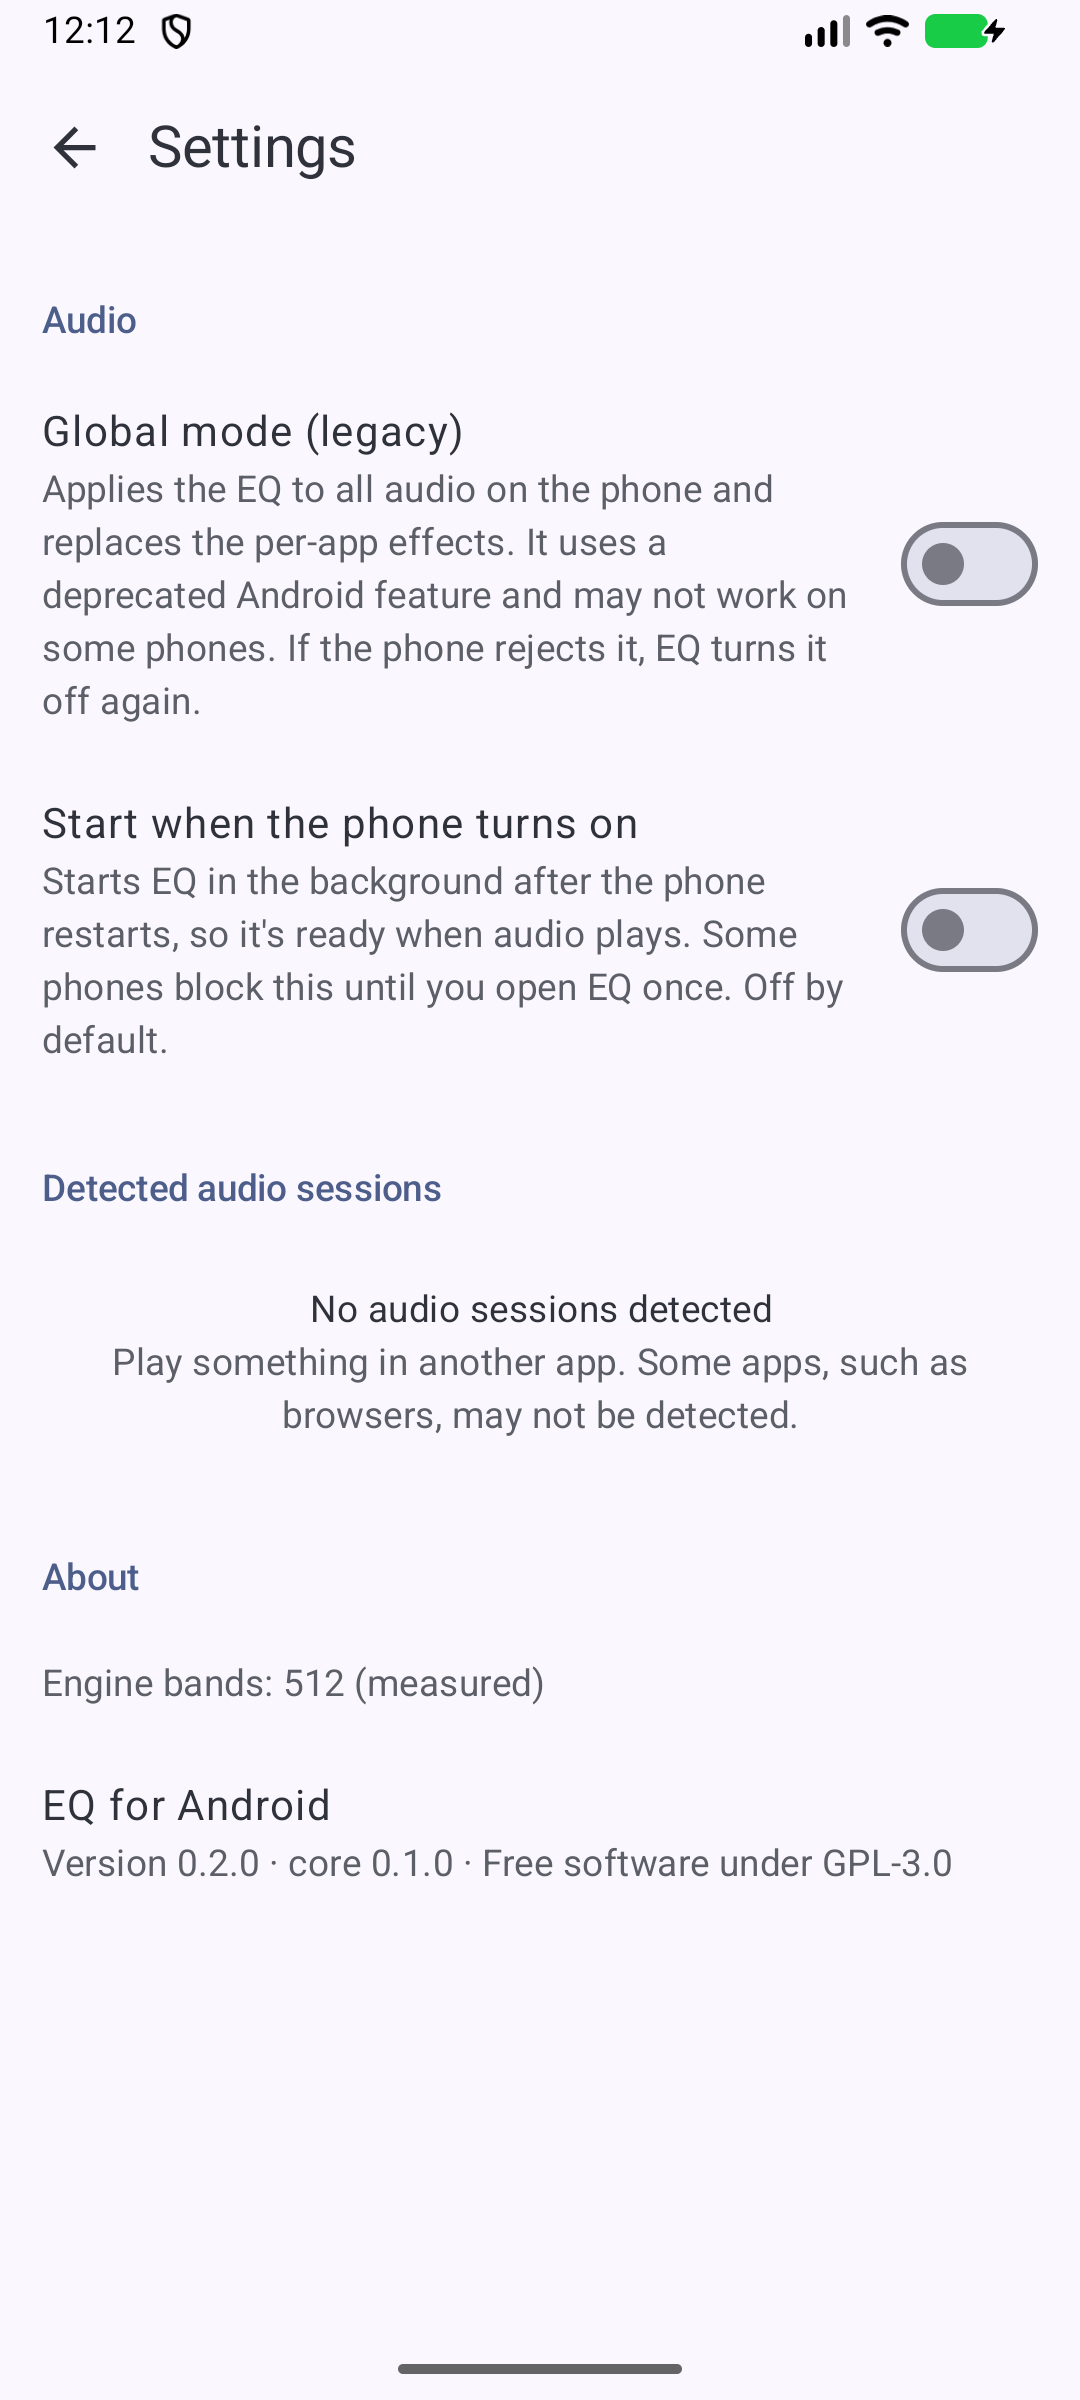
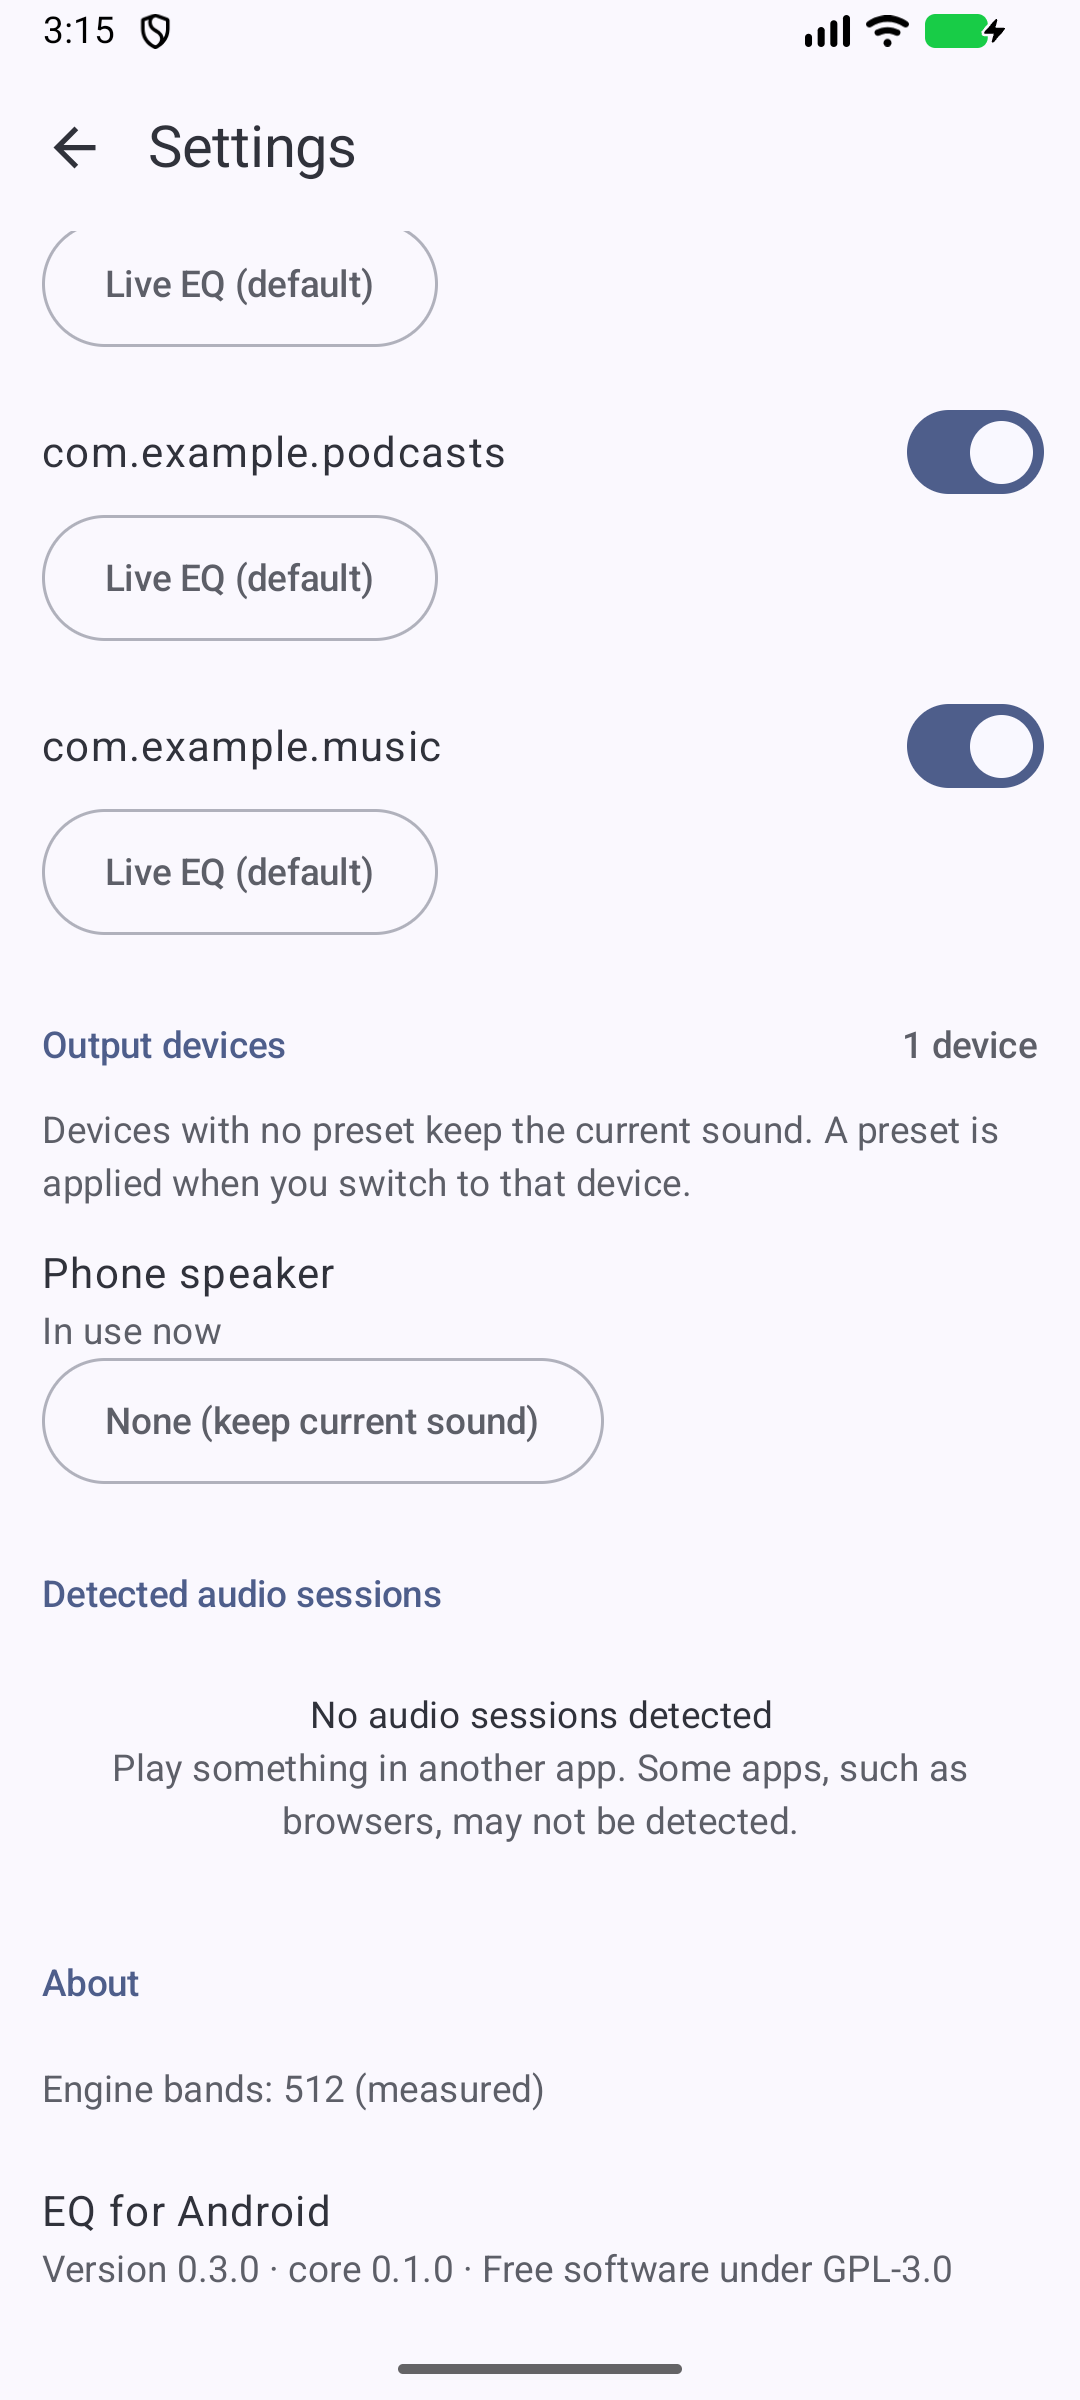
docs: retake the screenshots for 0.3.0, adding player tracking and Apps

diff --git a/README.md b/README.md
@@ -25,7 +25,7 @@ It has a graphic mode (5, 10, 15 or 31 bands, plus or minus 12 dB per slider) an
   <source media="(prefers-color-scheme: dark)" srcset="docs/screenshot-parametric-dark.png">
   <img src="docs/screenshot-parametric-light.png" width="320" alt="The Parametric mode with the Desk speakers preset active: a curve with draggable band nodes and a list of bands below">
 </picture>
-<img src="docs/screenshot-settings.png" width="320" alt="Settings: global mode, start when the phone turns on, detected audio sessions, engine bands 512 (measured), version 0.3.0">
+<img src="docs/screenshot-settings.png" width="320" alt="Settings further down: the Apps list, Output devices with the phone speaker in use, detected audio sessions, engine bands 512 (measured), version 0.3.0">
 
 </div>
 
